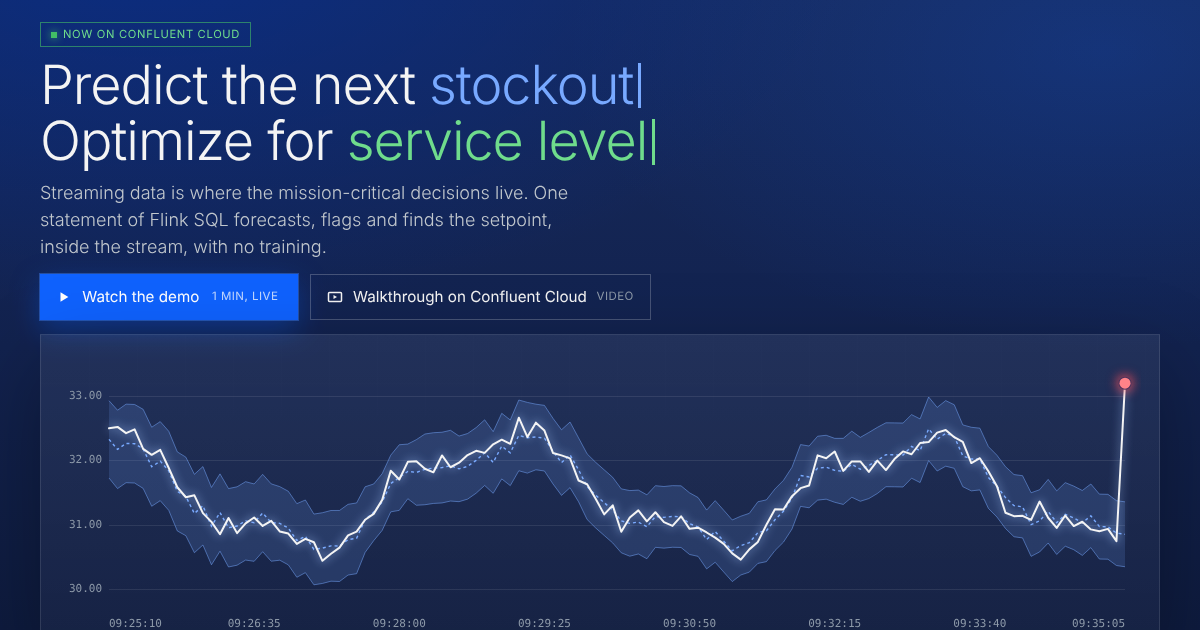
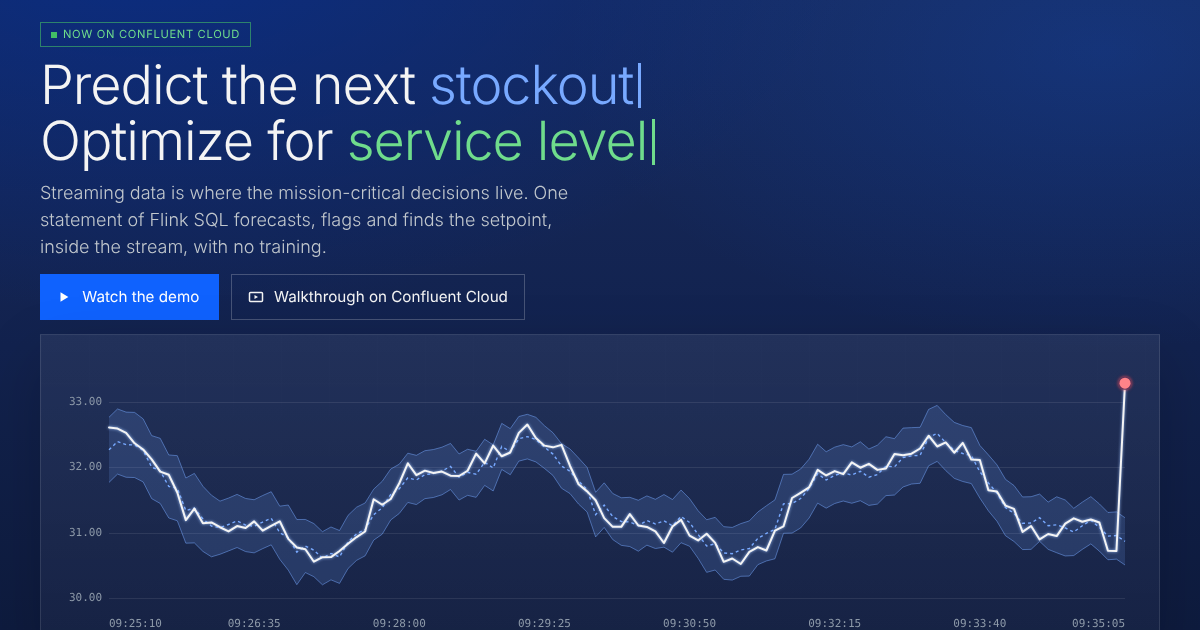
Polish pass: quieter system, one accent for actions
Selected chips, toggles and pause states are neutral outlines, so solid blue only marks real actions. Outer glows removed from cards, sliders and markers, canvas glows damped site-wide. Stock photo backdrops removed from the six demo headers (photos stay on industry and proof cards, desaturated). Duplicate stats removed from the production demo, proof figures are static instead of counting up a range, button sub-labels dropped, stage subtitles shortened, value-stage labels raised to a readable size with mono numerals, photo credits collapsed, tighter chapter rhythm, a few headings reworded.

Claude-Session: https://claude.ai/code/session_01JLcHv6cFAYwFtSfArZfbhX

diff --git a/index.html b/index.html
@@ -641,6 +641,51 @@ body.walking{overflow:hidden}
 .toast{font-size:.8rem;color:var(--green-2);min-height:1.2em}
 .sr{position:absolute;width:1px;height:1px;overflow:hidden;clip:rect(0 0 0 0);white-space:nowrap}
 @media (prefers-reduced-motion:reduce){.pipe-svg .flow,.pill.live::before{animation:none}*{transition-duration:.01ms!important}}
+
+/* ---------- refinement layer: one accent for actions, quiet selection, no glow ---------- */
+.chip[aria-pressed="true"],.chip.on{background:rgba(255,255,255,.1);border-color:rgba(255,255,255,.55);color:#fff}
+.chip.purple[aria-pressed="true"]{background:rgba(190,149,255,.14);border-color:rgba(190,149,255,.7);color:#fff}
+.chip{border-color:rgba(255,255,255,.16)}
+.chip:hover{border-color:rgba(255,255,255,.32)}
+.btn.play{box-shadow:none}
+.btn.play small,.btn.play2 small{display:none}
+.brand .dot,.hint::before,.pill.live::before,.pitch-live i,.walk-k i,.arch-row i,.arch-row.purple i,.node.lit .nl i,.node.agent.lit .nl i,.pitch-prog i::after{box-shadow:none}
+.pill.live::before{animation:none}
+input[type=range]::-webkit-slider-thumb{box-shadow:0 0 0 1px var(--blue-2)}
+input[type=range]::-moz-range-thumb{box-shadow:0 0 0 1px var(--blue-2)}
+.uc[aria-selected="true"],.ind[aria-selected="true"],.mcard.on{box-shadow:0 0 0 1px var(--blue-2) inset}
+.node.lit{box-shadow:0 0 0 1px var(--blue-2)}
+.node.agent.lit{box-shadow:0 0 0 1px var(--purple)}
+.way.on{box-shadow:0 0 0 1px rgba(69,137,255,.35)}
+.tile.hit{box-shadow:0 0 0 1px var(--teal)}
+.lane .lb i,.bar.hi i::after,.boxes.now i.keep,.trust-i i{box-shadow:none}
+.arch-engine{box-shadow:none}
+.particle{box-shadow:0 0 8px rgba(69,137,255,.6)}
+.particle.purple{box-shadow:0 0 8px rgba(190,149,255,.6)}
+.quad .dotp{box-shadow:0 0 10px rgba(69,137,255,.5)}
+.bubbles .b{box-shadow:none}
+.hero .stage{box-shadow:0 24px 60px rgba(0,0,0,.18)}
+/* demo headers: plain, the photos live on the industry cards only */
+.ucpanel.has-cover .stage-top{min-height:0;padding-bottom:0}
+.ucpanel.has-cover .stage-top::before,.ucpanel.has-cover .stage-top::after{display:none}
+/* calmer chapter rhythm */
+.chapter-head p{color:var(--ink-3)}
+.chapter-head .n{color:var(--ink-3)}
+.stage-title p{color:var(--ink-3)}
+.foot details summary{cursor:pointer;color:var(--ink-3);list-style:none}
+.foot details summary::-webkit-details-marker{display:none}
+.foot details[open] summary{margin-bottom:.4rem}
+.three-k{flex-direction:column;align-items:flex-start;justify-content:center;gap:.25rem}
+.three-k i{width:auto;height:auto;border-radius:0;background:none;color:var(--ink-3);font-family:var(--font-mono);font-size:.72rem;font-weight:400;display:block}
+.three-k b{font-size:1.05rem}
+@media (max-width:900px){.three-k{flex-direction:row;align-items:baseline;gap:.6rem}}
+.tn-toggle button.on{background:rgba(255,255,255,.1);color:#fff;box-shadow:0 0 0 1px rgba(255,255,255,.55) inset}
+#th-play[aria-pressed],#live-pause[aria-pressed="true"]{background:transparent;border-color:var(--line-2);color:var(--ink)}
+.lane .lb i{background:linear-gradient(90deg,rgba(69,137,255,.8),rgba(61,219,217,.7))}
+.ind::before{filter:saturate(.55) contrast(1.02) brightness(.85)}
+.ind::after{background:linear-gradient(180deg,rgba(10,20,50,.25) 0,rgba(10,20,50,.7) 42%,rgba(10,20,50,.96) 100%)}
+.pcard .pimg{filter:saturate(.7)}
+.chapter{padding-block:clamp(64px,7vw,112px) 0}
 </style>
 </head>
 <body>
@@ -726,7 +771,7 @@ body.walking{overflow:hidden}
 
     <div class="stage" id="uc-opt">
       <div class="stage-top">
-        <div class="stage-title"><h3>Which setting earns the most and still meets spec?</h3><p>Two knobs, three objectives: quality, energy, margin. The model forecasts what every setting does. The optimizer maps the trade-offs, respects the limits, and the operator approves.</p></div>
+        <div class="stage-title"><h3>Which setting earns the most and still meets spec?</h3><p>Two knobs, three objectives. The operator approves.</p></div>
         <div class="ctl">
           <div class="ctl-group"><span class="eyebrow">How much we feed, t/h</span><label class="range"><input type="range" id="op-feed" min="150" max="210" value="196" aria-label="Feed rate"><output id="op-feedv">196</output></label></div>
           <div class="ctl-group"><span class="eyebrow">How hot we run, °C</span><label class="range"><input type="range" id="op-temp" min="1400" max="1500" value="1418" aria-label="Kiln temperature"><output id="op-tempv">1418</output></label></div>
@@ -803,7 +848,7 @@ body.walking{overflow:hidden}
     </div>
 
     <div class="chapter-head sub">
-      <h2>Then something acts on it.</h2>
+      <h2>An agent acts on it.</h2>
       <p>An agent reads the forecast and the flag, reasons, and writes the decision to a topic. Experts set the gates.</p>
     </div>
 
@@ -910,8 +955,8 @@ FROM pos_sales;</code></pre></div>
     </div>
 
     <div class="chapter-head sub">
-      <h2>Four models. One family. 44M+ downloads.</h2>
-      <p>Pick one. Every simulation follows.</p>
+      <h2>Four models, one family.</h2>
+      <p>44M+ downloads on Hugging Face. Pick one and every simulation on the page follows.</p>
     </div>
 
     <div class="stage" id="st-models">
@@ -944,17 +989,17 @@ FROM pos_sales;</code></pre></div>
       <div class="stage-body">
         <div class="three">
           <div class="three-row">
-            <div class="three-k"><i>1</i><b>Productivity</b></div>
+            <div class="three-k"><i>01</i><b>Productivity</b></div>
             <div class="three-cv"><canvas class="stage-canvas" id="th-prod" aria-label="Bespoke models take months per use case, Granite goes live in days and stacks use cases"></canvas></div>
             <div class="three-impact"><b>10×</b><span>faster time to value</span><b>5×</b><span>lower skill required</span></div>
           </div>
           <div class="three-row">
-            <div class="three-k"><i>2</i><b>Accuracy</b></div>
+            <div class="three-k"><i>02</i><b>Accuracy</b></div>
             <div class="three-cv acc"><canvas class="stage-canvas" id="th-acc" aria-label="Rules and classic ML plateau near 93 percent, Granite starts at 97 zero-shot and climbs to 99"></canvas></div>
             <div class="three-impact"><b>5 to 10%</b><span>accuracy improvement</span></div>
           </div>
           <div class="three-row">
-            <div class="three-k"><i>3</i><b>Responsiveness</b></div>
+            <div class="three-k"><i>03</i><b>Responsiveness</b></div>
             <div class="three-cv"><canvas class="stage-canvas" id="th-resp" aria-label="A signal takes days to become a decision by batch and under a second in the stream"></canvas></div>
             <div class="three-impact"><b>Days &#8594; seconds</b><span>from signal to decision</span></div>
           </div>
@@ -1036,14 +1081,14 @@ FROM pos_sales;</code></pre></div>
 
     <div class="chapter-head sub">
       <h2>Real outcomes on real streams.</h2>
-      <p>5 to 10× productivity. Every point of accuracy worth millions. Client identities withheld.</p>
+      <p>In production with design partners. Client identities withheld.</p>
     </div>
     <div class="stage" id="st-proof">
       <div class="stage-body">
         <div class="proof" id="proof">
           <div class="pcard"><span class="pk">Telco · network operations <em>production</em></span><b>0<small> tickets without a cause</small></b><div class="pimg" style="--img:url(photos/telecom-s.jpg)"><canvas data-spark="telco"></canvas></div><div class="pt">IBM Network Intelligence, Granite TSPulse</div><div class="pd">Telemetry in, anomalies out, agentic root cause, remediation human-in-the-loop or autonomous.</div><div class="tags"><span>TSPulse</span><span>agentic RCA</span><span>MCP tools</span></div></div>
-          <div class="pcard"><span class="pk">Financial services · markets <em>production</em></span><b data-count="10" data-prefix="~" data-suffix="% RMSE">~0%</b><div class="pimg" style="--img:url(photos/banking-charts-s.jpg)"><canvas data-spark="fin"></canvas></div><div class="pt">Multivariate asset forecasts, Granite TTM</div><div class="pd">Per asset class, against the incumbent model. Zero-shot first, tuned where the backtest paid.</div><div class="tags"><span>TTM</span><span>multivariate</span><span>backtested</span></div></div>
-          <div class="pcard"><span class="pk">Grocery · planning <em>reference design</em></span><b data-count="10" data-prefix="+5 to " data-suffix=" pts">+0 pts</b><div class="pimg" style="--img:url(photos/retail-shelves-s.jpg)"><canvas data-spark="grocery"></canvas></div><div class="pt">Every SKU in every store, hourly</div><div class="pd">Around 100,000 SKUs across thousands of stores. Reorder point and purchase order raised in the stream from the P10 to P90 band.</div><div class="tags"><span>AI_FORECAST</span><span>P10 to P90</span><span>Tableflow</span></div></div>
+          <div class="pcard"><span class="pk">Financial services · markets <em>production</em></span><b>~10%<small> lower RMSE</small></b><div class="pimg" style="--img:url(photos/banking-charts-s.jpg)"><canvas data-spark="fin"></canvas></div><div class="pt">Multivariate asset forecasts, Granite TTM</div><div class="pd">Per asset class, against the incumbent model. Zero-shot first, tuned where the backtest paid.</div><div class="tags"><span>TTM</span><span>multivariate</span><span>backtested</span></div></div>
+          <div class="pcard"><span class="pk">Grocery · planning <em>reference design</em></span><b>+5 to 10<small> accuracy points</small></b><div class="pimg" style="--img:url(photos/retail-shelves-s.jpg)"><canvas data-spark="grocery"></canvas></div><div class="pt">Every SKU in every store, hourly</div><div class="pd">Around 100,000 SKUs across thousands of stores. Reorder point and purchase order raised in the stream from the P10 to P90 band.</div><div class="tags"><span>AI_FORECAST</span><span>P10 to P90</span><span>Tableflow</span></div></div>
         </div>
       </div>
     </div>
@@ -1071,7 +1116,7 @@ FROM pos_sales;</code></pre></div>
     </div>
 
     <!-- production optimization -->
-    <div class="stage ucpanel has-cover" id="uc-prod" role="tabpanel" style="--img:url(photos/cement-plant.jpg);--pos:60%">
+    <div class="stage ucpanel" id="uc-prod" role="tabpanel">
       <div class="stage-top">
         <div class="stage-title"><h3>The kiln finds its own setpoint</h3></div>
         <div class="ctl">
@@ -1091,11 +1136,11 @@ FROM pos_sales;</code></pre></div>
           </div>
         </div>
       </div>
-      <div class="stage-foot"><div class="readouts"><div class="readout"><b class="green">2 to 5×</b><span>faster optimization</span></div><div class="readout"><b>93 → 99%</b><span>quality accuracy</span></div><div class="readout"><b>$2</b><span>per ton</span></div></div><div class="sqlline"><code id="pr-sql"></code></div></div>
+      <div class="stage-foot"><div class="sqlline"><code id="pr-sql"></code></div></div>
     </div>
 
     <!-- anomaly -->
-    <div class="stage ucpanel has-cover" id="uc-anom" role="tabpanel" style="--img:url(photos/retail-empty.jpg)" hidden>
+    <div class="stage ucpanel" id="uc-anom" role="tabpanel" hidden>
       <div class="stage-top">
         <div class="stage-title"><h3>From a flag to the right action</h3></div>
         <div class="ctl">
@@ -1117,7 +1162,7 @@ FROM pos_sales;</code></pre></div>
     </div>
 
     <!-- demand -->
-    <div class="stage ucpanel has-cover" id="uc-demand" role="tabpanel" style="--img:url(photos/retail-aisle.jpg);--pos:55%" hidden>
+    <div class="stage ucpanel" id="uc-demand" role="tabpanel" hidden>
       <div class="stage-top">
         <div class="stage-title"><h3>Every SKU, every store, every hour</h3></div>
         <div class="ctl">
@@ -1140,7 +1185,7 @@ FROM pos_sales;</code></pre></div>
     </div>
 
     <!-- fraud -->
-    <div class="stage ucpanel has-cover" id="uc-fraud" role="tabpanel" hidden style="--img:url(photos/banking-card.jpg)">
+    <div class="stage ucpanel" id="uc-fraud" role="tabpanel" hidden>
       <div class="stage-top">
         <div class="stage-title"><h3>Every card has its own normal</h3></div>
         <div class="ctl">
@@ -1162,7 +1207,7 @@ FROM pos_sales;</code></pre></div>
     </div>
 
     <!-- search -->
-    <div class="stage ucpanel has-cover" id="uc-search" role="tabpanel" style="--img:url(photos/workers.jpg)" hidden>
+    <div class="stage ucpanel" id="uc-search" role="tabpanel" hidden>
       <div class="stage-top">
         <div class="stage-title"><h3>Find every signal that looks like this</h3></div>
         <div class="ctl">
@@ -1185,7 +1230,7 @@ FROM pos_sales;</code></pre></div>
     </div>
 
     <!-- trading -->
-    <div class="stage ucpanel has-cover" id="uc-trade" role="tabpanel" style="--img:url(photos/banking-charts.jpg);--pos:45%" hidden>
+    <div class="stage ucpanel" id="uc-trade" role="tabpanel" hidden>
       <div class="stage-top">
         <div class="stage-title"><h3>Pace the order with the tape</h3></div>
         <div class="ctl">
@@ -1237,7 +1282,7 @@ FROM pos_sales;</code></pre></div>
 
     <div class="stage" id="st-plant" role="tabpanel">
       <div class="stage-top">
-        <div class="stage-title"><h3>From sensor to setpoint</h3><p>Pick a story, or click the kiln, the mill or the preheater.</p></div>
+        <div class="stage-title"><h3>From sensor to setpoint</h3><p>Pick a story, or click the equipment.</p></div>
         <div class="ctl">
           <div class="ctl-group"><span class="eyebrow">Story</span>
             <div class="chips" id="pl-sc"><button class="chip" data-v="opt" aria-pressed="true">Production optimization</button><button class="chip" data-v="pdm" aria-pressed="false">Predictive maintenance</button><button class="chip" data-v="anom" aria-pressed="false">Anomaly detection</button></div></div>
@@ -1272,7 +1317,7 @@ FROM pos_sales;</code></pre></div>
 
     <div class="stage" id="st-retail" role="tabpanel" hidden>
       <div class="stage-top">
-        <div class="stage-title"><h3>Store 112 and its supply chain</h3><p>Pick a story, or click the shelf, the checkout or the distribution center.</p></div>
+        <div class="stage-title"><h3>Store 112 and its supply chain</h3><p>Pick a story, or click the equipment.</p></div>
         <div class="ctl">
           <div class="ctl-group"><span class="eyebrow">Story</span><div class="chips" id="rt-sc"><button class="chip" data-v="plan" aria-pressed="true">Supply chain planning</button><button class="chip" data-v="anom" aria-pressed="false">Anomaly detection</button><button class="chip" data-v="fraud" aria-pressed="false">Fraud and security</button></div></div>
         </div>
@@ -1286,7 +1331,7 @@ FROM pos_sales;</code></pre></div>
 
     <div class="stage" id="st-bank" role="tabpanel" hidden>
       <div class="stage-top">
-        <div class="stage-title"><h3>Payments and the trading desk</h3><p>Pick a story, or click the card switch, the ledger or the desk.</p></div>
+        <div class="stage-title"><h3>Payments and the trading desk</h3><p>Pick a story, or click the equipment.</p></div>
         <div class="ctl">
           <div class="ctl-group"><span class="eyebrow">Story</span><div class="chips" id="bk-sc"><button class="chip" data-v="fraud" aria-pressed="true">Fraud and security</button><button class="chip" data-v="trade" aria-pressed="false">Trading</button><button class="chip" data-v="anom" aria-pressed="false">Anomaly detection</button></div></div>
         </div>
@@ -1300,7 +1345,7 @@ FROM pos_sales;</code></pre></div>
 
     <div class="stage" id="st-air" role="tabpanel" hidden>
       <div class="stage-top">
-        <div class="stage-title"><h3>Hub operations, fleet and network</h3><p>Pick a story, or click the aircraft, the gate or the network.</p></div>
+        <div class="stage-title"><h3>Hub operations, fleet and network</h3><p>Pick a story, or click the equipment.</p></div>
         <div class="ctl">
           <div class="ctl-group"><span class="eyebrow">Story</span><div class="chips" id="al-sc"><button class="chip" data-v="anom" aria-pressed="true">Anomaly detection</button><button class="chip" data-v="opt" aria-pressed="false">Production optimization</button><button class="chip" data-v="plan" aria-pressed="false">Supply chain planning</button></div></div>
         </div>
@@ -1467,7 +1512,7 @@ FROM motor_telemetry;</code></pre></div>
 <footer class="foot">
   <div class="wrap">
     <div class="row"><span class="tag">Every event is a decision.</span><span>IBM Granite Time Series models on Confluent Cloud for Apache Flink. October 2026.</span></div>
-    <div class="row" id="credits">Photos: <a href="https://commons.wikimedia.org/wiki/File:Cimenterie_Jbal_Ressas_la_nuit.jpg" target="_blank" rel="noopener">Cimenterie Jbal Ressas la nuit</a> by Smailtn (CC BY-SA 4.0) · <a href="https://commons.wikimedia.org/wiki/File:Cementera,_Yura,_Per%C3%BA,_2015-08-01,_DD_129-131_HDR.JPG" target="_blank" rel="noopener">Cementera, Yura, Perú</a> by Diego Delso (CC BY-SA 4.0) · <a href="https://www.rawpixel.com/image/5914150/image-background-public-domain-free" target="_blank" rel="noopener">Factory pipe system</a> by rawpixel (CC0) · <a href="https://www.flickr.com/photos/149400054@N04/54435322282" target="_blank" rel="noopener">Power plant workers in PPE</a> by EU-Ukraine cooperation (CC BY-SA 2.0) · <a href="https://www.rawpixel.com/image/5904812/photo-image-public-domain-free" target="_blank" rel="noopener">Supermarket aisle</a> by rawpixel (CC0) · <a href="https://www.rawpixel.com/image/6082112/vegetables-supermarket" target="_blank" rel="noopener">Vegetables in a supermarket</a> by rawpixel (CC0) · <a href="https://www.rawpixel.com/image/6081498/vegetables-supermarket" target="_blank" rel="noopener">Vegetables in a supermarket</a> by rawpixel (CC0) · <a href="https://www.rawpixel.com/image/6075188/photo-image-public-domain-covid-19" target="_blank" rel="noopener">Empty shelves, supermarket</a> by rawpixel (CC0) · <a href="https://www.rawpixel.com/image/8809237/credit-card-payment-shopping" target="_blank" rel="noopener">Credit card payment</a> by rawpixel (CC0) · <a href="https://stocksnap.io/photo/creditcard-money-71MH9ATF4S" target="_blank" rel="noopener">Creditcard Money</a> by Michal Jarmoluk (CC0) · <a href="https://stocksnap.io/photo/stockmarket-charts-G3YOGRBLF3" target="_blank" rel="noopener">Stockmarket Charts</a> by Negative Space (CC0) · <a href="https://commons.wikimedia.org/wiki/File:Telecommunications_mast_at_sunset.jpg" target="_blank" rel="noopener">Telecommunications mast at sunset</a> by W.carter (CC BY-SA 4.0) · <a href="https://www.flickr.com/photos/14829735@N00/51750792923" target="_blank" rel="noopener">We belong to the light, we belong to the</a> by dullhunk (CC BY-SA 2.0) · <a href="https://stocksnap.io/photo/airplane-turbofan-3FA6983C6D" target="_blank" rel="noopener">Airplane Turbofan</a> by Little Visuals (CC0). Edited for color and crop.</div>
+    <details class="row" id="credits"><summary>Photo credits</summary><div><a href="https://commons.wikimedia.org/wiki/File:Cimenterie_Jbal_Ressas_la_nuit.jpg" target="_blank" rel="noopener">Cimenterie Jbal Ressas la nuit</a> by Smailtn (CC BY-SA 4.0) · <a href="https://www.rawpixel.com/image/5914150/image-background-public-domain-free" target="_blank" rel="noopener">Factory pipe system</a> by rawpixel (CC0) · <a href="https://www.rawpixel.com/image/6082112/vegetables-supermarket" target="_blank" rel="noopener">Vegetables in a supermarket</a> by rawpixel (CC0) · <a href="https://www.rawpixel.com/image/6081498/vegetables-supermarket" target="_blank" rel="noopener">Vegetables in a supermarket</a> by rawpixel (CC0) · <a href="https://www.rawpixel.com/image/8809237/credit-card-payment-shopping" target="_blank" rel="noopener">Credit card payment</a> by rawpixel (CC0) · <a href="https://stocksnap.io/photo/creditcard-money-71MH9ATF4S" target="_blank" rel="noopener">Creditcard Money</a> by Michal Jarmoluk (CC0) · <a href="https://stocksnap.io/photo/stockmarket-charts-G3YOGRBLF3" target="_blank" rel="noopener">Stockmarket Charts</a> by Negative Space (CC0) · <a href="https://commons.wikimedia.org/wiki/File:Telecommunications_mast_at_sunset.jpg" target="_blank" rel="noopener">Telecommunications mast at sunset</a> by W.carter (CC BY-SA 4.0) · <a href="https://www.flickr.com/photos/14829735@N00/51750792923" target="_blank" rel="noopener">We belong to the light, we belong to the</a> by dullhunk (CC BY-SA 2.0) · <a href="https://stocksnap.io/photo/airplane-turbofan-3FA6983C6D" target="_blank" rel="noopener">Airplane Turbofan</a> by Little Visuals (CC0). Edited for color and crop.</div></details>
     <div class="row"><a href="https://huggingface.co/ibm-granite" target="_blank" rel="noopener">Hugging Face</a><a href="https://github.com/ibm-granite/granite-tsfm" target="_blank" rel="noopener">GitHub</a><a href="https://docs.confluent.io/cloud/current/ai/builtin-functions/forecast.html" target="_blank" rel="noopener">Confluent docs</a><a href="#reference">Technical reference</a></div>
     <div class="row"><span>Simulations on this page run in your browser and are illustrative. Benchmark and case figures from IBM and Confluent materials. IBM, Granite, Confluent, Apache Flink and Apache Kafka are trademarks of their owners. Not an official IBM or Confluent site.</span></div>
   </div>
@@ -1499,6 +1544,9 @@ $$('.codebox').forEach(box=>{const btn=$('.copy',box),pre=$('pre',box);if(!btn||
 function chipGroup(id,onChange){const g=document.getElementById(id);if(!g)return;const btns=$$('.chip',g);btns.forEach(b=>b.addEventListener('click',()=>{btns.forEach(x=>x.setAttribute('aria-pressed',x===b?'true':'false'));onChange(b.dataset.v,b);}));}
 function chipSet(id,v){const g=document.getElementById(id);if(!g)return;$$('.chip',g).forEach(x=>x.setAttribute('aria-pressed',x.dataset.v===v?'true':'false'));}
 $$('.tabs').forEach(tabs=>{const btns=$$('[role=tab]',tabs);btns.forEach(b=>b.addEventListener('click',()=>{btns.forEach(x=>{x.setAttribute('aria-selected',x===b?'true':'false');const p=document.getElementById(x.getAttribute('aria-controls'));if(p)p.hidden=(x!==b);});}));});
+
+/* one restrained light source: every canvas glow is kept faint */
+(function(){const d=Object.getOwnPropertyDescriptor(CanvasRenderingContext2D.prototype,'shadowBlur');if(d&&d.set)Object.defineProperty(CanvasRenderingContext2D.prototype,'shadowBlur',{get:d.get,set(v){d.set.call(this,v*0.3);},configurable:true});})();
 
 /* ============ colors ============ */
 const C={ink:'#f4f4f4',ink2:'#c1c7cd',ink3:'#8d99a8',ink4:'#697077',grid:'rgba(255,255,255,.09)',blue:'#0f62fe',blue2:'#4589ff',blue3:'#78a9ff',blue4:'#a6c8ff',band:'rgba(120,169,255,.16)',red:'#fa4d56',red2:'#ff8389',green:'#42be65',green2:'#6fdc8c',orange:'#ff832b',purple:'#be95ff',teal:'#08bdba',teal2:'#3ddbd9',bg:'#172b5e',yellow:'#f1c21b'};
@@ -1799,7 +1847,7 @@ function hoverIndex(layout,cv,ev){if(!layout)return -1;const rect=cv.c.getBoundi
   const cvs={prod:new Cv($('#th-prod')),acc:new Cv($('#th-acc')),resp:new Cv($('#th-resp'))};
   const st={t:0,playing:true,dur:reduced?1:16000,decisions:0,evAcc:0,events:[]};
   const MONO_='"IBM Plex Mono", Menlo, monospace',SANS_='"IBM Plex Sans", Arial, sans-serif';
-  function txt(ctx,s,x,y,o){o=o||{};ctx.font=(o.w||400)+' '+(o.px||10)+'px '+(o.mono===false?SANS_:MONO_);ctx.fillStyle=o.c||C.ink3;ctx.textAlign=o.a||'left';ctx.textBaseline='middle';ctx.fillText(s,x,y);}
+  function txt(ctx,s,x,y,o){o=o||{};ctx.font=(o.w||400)+' '+Math.max(9.5,o.px||10)+'px '+(o.mono===false?SANS_:MONO_);ctx.fillStyle=o.c||C.ink3;ctx.textAlign=o.a||'left';ctx.textBaseline='middle';ctx.fillText(s,x,y);}
   function dash(ctx,x1,y1,x2,y2,c){ctx.setLineDash([3,4]);ctx.strokeStyle=c||C.grid;ctx.lineWidth=1;ctx.beginPath();ctx.moveTo(x1,y1);ctx.lineTo(x2,y2);ctx.stroke();ctx.setLineDash([]);}
   function people(ctx,x,y,n,c){for(let i=0;i<n;i++){const px=x+i*11;ctx.fillStyle=c;ctx.beginPath();ctx.arc(px,y-5,2.6,0,Math.PI*2);ctx.fill();ctx.beginPath();ctx.moveTo(px-4,y+5);ctx.quadraticCurveTo(px,y-2,px+4,y+5);ctx.closePath();ctx.fill();}}
   /* two halves side by side, or stacked on a narrow canvas */
@@ -1815,7 +1863,7 @@ function hoverIndex(layout,cv,ev){if(!layout)return -1;const rect=cv.c.getBoundi
       for(let u=0;u<2;u++){const y=top+14+u*30;const s0=u*BESPOKE;txt(ctx,'use case '+(u+1),r.x,y-11,{px:8,c:C.ink3});let acc=s0;PH.forEach(([name,d],i)=>{const a=acc,b=acc+d;acc=b;if(m<=a)return;const x1=r.x+a/12*r.w,x2=r.x+Math.min(m,b)/12*r.w;ctx.fillStyle=i%2?'rgba(159,179,200,.35)':'rgba(159,179,200,.22)';ctx.fillRect(x1,y-5,Math.max(1,x2-x1),10);if(x2-x1>34)txt(ctx,name,x1+3,y,{px:8,c:C.ink2});});
         if(m>=s0+BESPOKE){live++;const x1=r.x+(s0+BESPOKE)/12*r.w,x2=r.x+cur/12*r.w;ctx.fillStyle='rgba(111,220,140,.8)';ctx.fillRect(x1,y-3,Math.max(2,x2-x1),6);ctx.save();ctx.shadowColor=C.green2;ctx.shadowBlur=8;ctx.fillStyle=C.green2;ctx.beginPath();ctx.arc(x1,y,3.5,0,Math.PI*2);ctx.fill();ctx.restore();txt(ctx,'live',x1+8,y-11,{px:8,c:C.green2});}}
       people(ctx,r.x+6,bot-4,5,'rgba(159,179,200,.8)');txt(ctx,'5 experts',r.x+62,bot-4,{px:8.5,c:C.ink3});
-      header(ctx,r,'TODAY · BESPOKE MODELS','live '+live+' · first value in '+(m>=BESPOKE?'7 mo':'…'),C.ink3);
+      header(ctx,r,'TODAY · BESPOKE MODELS','live '+live+' · first value in 7 mo',C.ink3);
       const x=r.x+cur/12*r.w;ctx.strokeStyle='rgba(244,244,244,.5)';ctx.lineWidth=1;ctx.beginPath();ctx.moveTo(Math.round(x)+0.5,top-2);ctx.lineTo(Math.round(x)+0.5,bot);ctx.stroke();}
     /* right: a new decision every month, live in a week */
     {const r=R,top=r.y+24,bot=r.y+r.h-16;monthAxis(ctx,r,top-2,bot);const n=12,lh=(bot-14-top)/n;let liveR=0;
